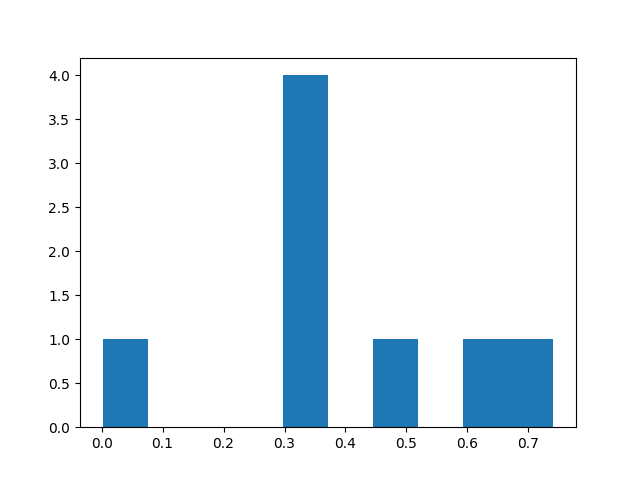
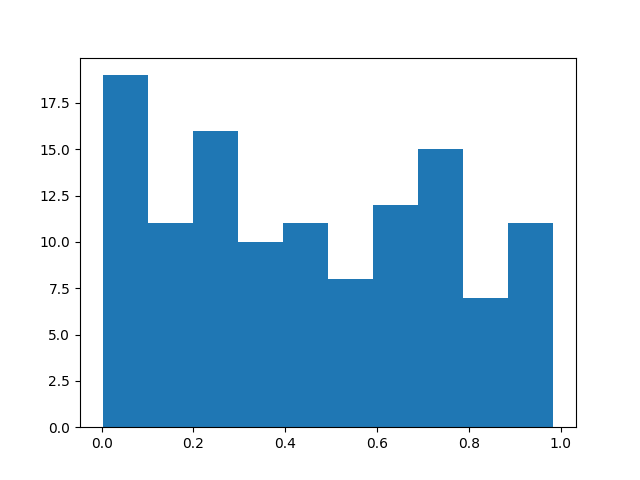
checkpoint paraAIC

diff --git a/pivot.py b/pivot.py
@@ -139,9 +139,9 @@ def pvalue_SI(seed, ns, nt, p, true_betaS, true_betaT):
 
     Sigmatilde = GAMMA.T.dot(Sigma.dot(GAMMA))
     # Best model from 1...p models by AIC criterion
-    # SELECTION_F = FS.SelectionAIC(Ytilde, Xtilde, Sigmatilde)
+    SELECTION_F = FS.SelectionAIC(Ytilde, Xtilde, Sigmatilde)
     k = 3
-    SELECTION_F = FS.fixedSelection(Ytilde, Xtilde, k)[0]
+    # SELECTION_F = FS.fixedSelection(Ytilde, Xtilde, k)[0]
     Xt_M = Xt[:, sorted(SELECTION_F)].copy()
 
     # Compute eta
@@ -167,8 +167,8 @@ def pvalue_SI(seed, ns, nt, p, true_betaS, true_betaT):
     # print(f"etay: {etaTY}")
     # finalinterval = overconditioning.OC_fixedFS_interval(ns, nt, a, b, XsXt_, Xtilde, Ytilde, Sigmatilde, basis_var, S_, h_, SELECTION_F, GAMMA)[0]
     # finalinterval = overconditioning.OC_AIC_interval(ns, nt, a, b, XsXt_, Xtilde, Ytilde, Sigmatilde, basis_var, S_, h_, SELECTION_F, GAMMA)
-    finalinterval = parametric.para_DA_FSwithfixedK(ns, nt, a, b, X, Sigma, S_, h_, SELECTION_F)
-    # finalinterval = parametric.para_DA_FSwithAIC(ns, nt, a, b, X, Sigma, S_, h_, SELECTION_F)
+    # finalinterval = parametric.para_DA_FSwithfixedK(ns, nt, a, b, X, Sigma, S_, h_, SELECTION_F)
+    finalinterval = parametric.para_DA_FSwithAIC(ns, nt, a, b, X, Sigma, S_, h_, SELECTION_F)
     # print(f"Final interval: {finalinterval}")
 
     # Naive

diff --git a/INIT_and_RUN.py b/INIT_and_RUN.py
@@ -7,7 +7,7 @@ def run(iter = 0):
     # print("Seed:",seed)
 
     #___________________________________________________________
-    ns = 200
+    ns = 50
     nt = 10
     p = 5
     betat = 0
@@ -18,7 +18,7 @@ def run(iter = 0):
     pvalue = pivot.pvalue_SI(seed, ns, nt, p, true_beta_s, true_beta_t)
 
     # Save pvalue into file
-    OCorPARA_FIXorAIC_FPRorTPR = 'para_fixed'
+    OCorPARA_FIXorAIC_FPRorTPR = 'para_AIC'
     filename = f'Experiment/Listpvalue_{OCorPARA_FIXorAIC_FPRorTPR}_{ns}_{p}.txt'
     # filename = f'Experiment/Listpvalue_{OCorPARA_FIXorAIC_FPRorTPR}_{ns}_{p}_{betat}.txt'
     with open(filename, 'a') as f:

diff --git a/Parallel_computing.py b/Parallel_computing.py
@@ -5,7 +5,7 @@ import numpy as np
 import matplotlib.pyplot as plt
 import os
 def main(st = 0):
-    max_iteration = 8
+    max_iteration = 120
     list_p_value = []
     # ssize = 50
     alpha = 0.05
@@ -13,7 +13,7 @@ def main(st = 0):
     #print("core available: ", mpr.cpu_count())
     iter = range(max_iteration)
 
-    with mpr.Pool(processes= 8,initializer = np.random.seed) as pool:
+    with mpr.Pool(processes= 16,initializer = np.random.seed) as pool:
         list_p_value = pool.map(INIT_and_RUN.run, iter)
 
     for i in list_p_value:
